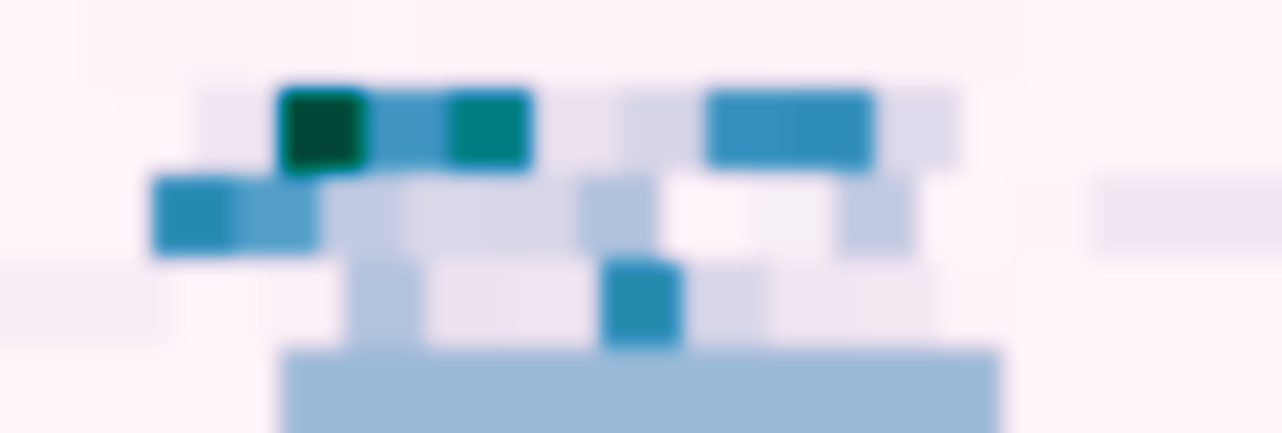
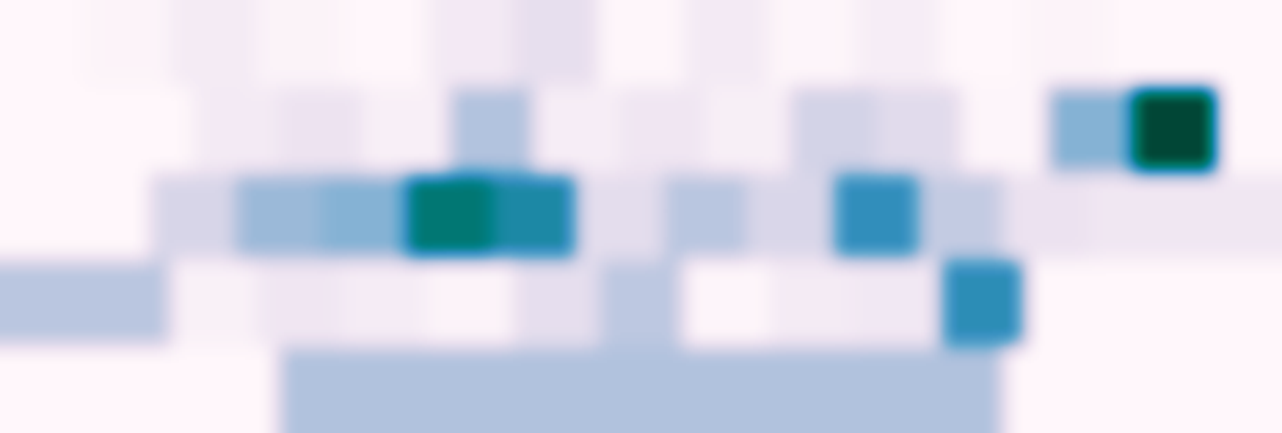
Correct the wrong qwerty layout

diff --git a/README.md b/README.md
@@ -1,0 +1,19 @@
+# Keyboard Heatmap
+
+This project helps create heatmap of keys in keyboard for some given text.
+
+Supports Nepali `नेपाली` keyboard layout, the popular `बकमान` for now and the usual `qwerty` layout.
+
+# Installation
+ TODO
+ 
+# Usage
+Generate heatmap
+
+# Outputs
+Example heatmap for QWERTY
+![An example heatmap](keyhmap/images/example_qwerty.png)
+
+
+Example heatmap for बकमान 
+![An example heatmap](keyhmap/images/example_bakamana.png)
